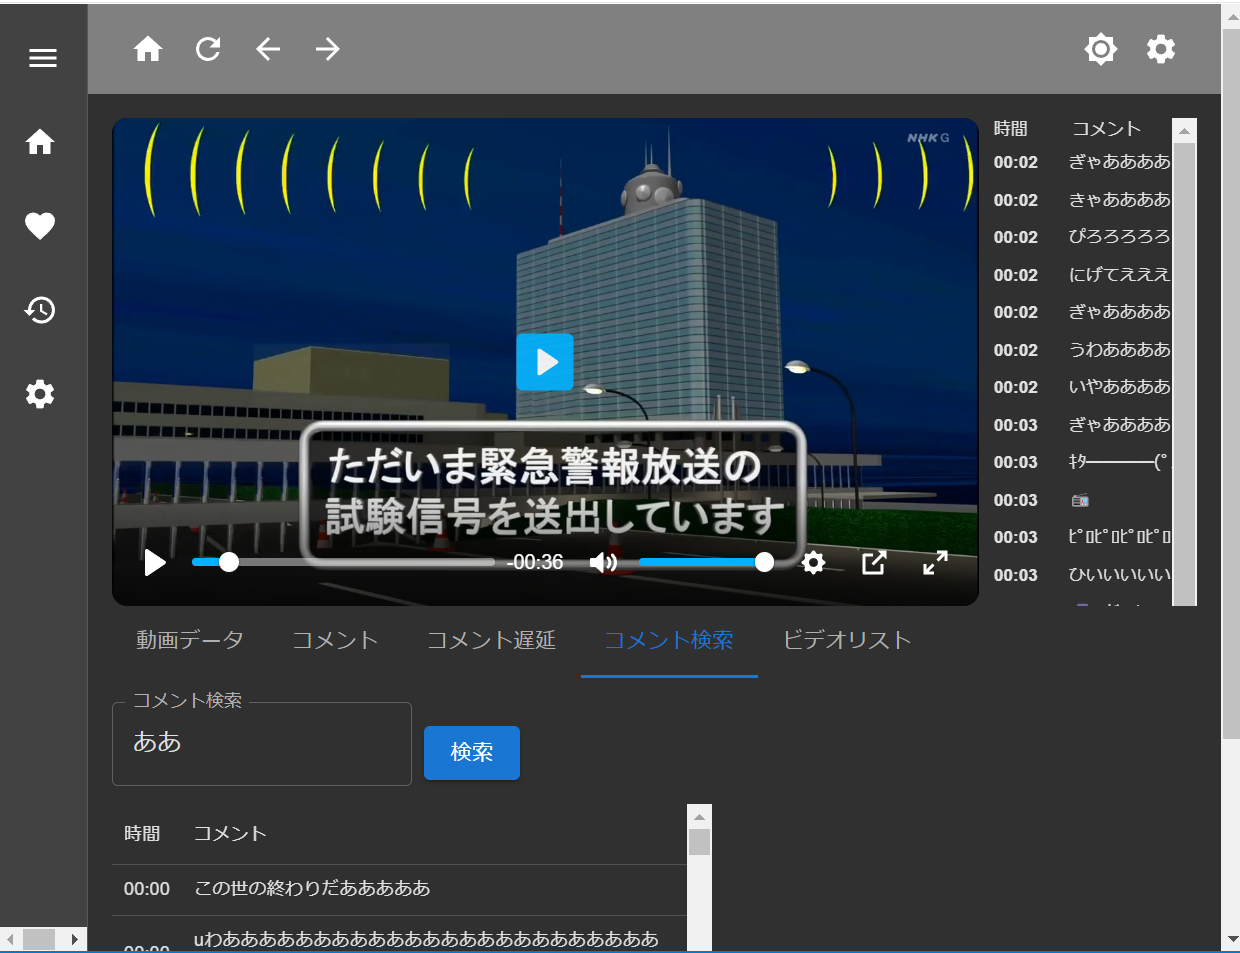
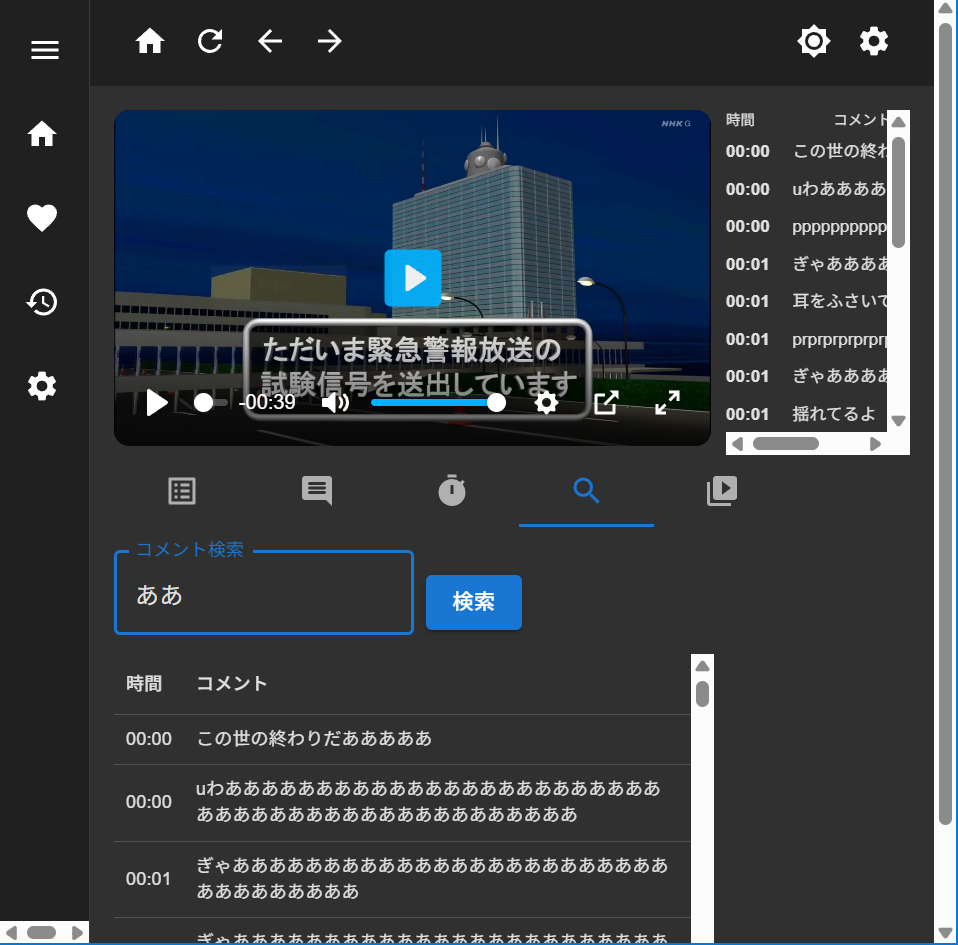
refactor: READMEに使用する画像の更新

diff --git a/frontend/src/components/VideoComments.tsx b/frontend/src/components/VideoComments.tsx
@@ -161,7 +161,7 @@ const VideoComments: React.FC<VideoCommentsProps> = ({
 
       <List
         ref={listRef}
-        width={175} // リストの幅
+        width={140} // リストの幅
         height={500} // リストの高さ
         rowCount={comments.length} // コメントの数
         rowHeight={25} // 各コメントの高さ
